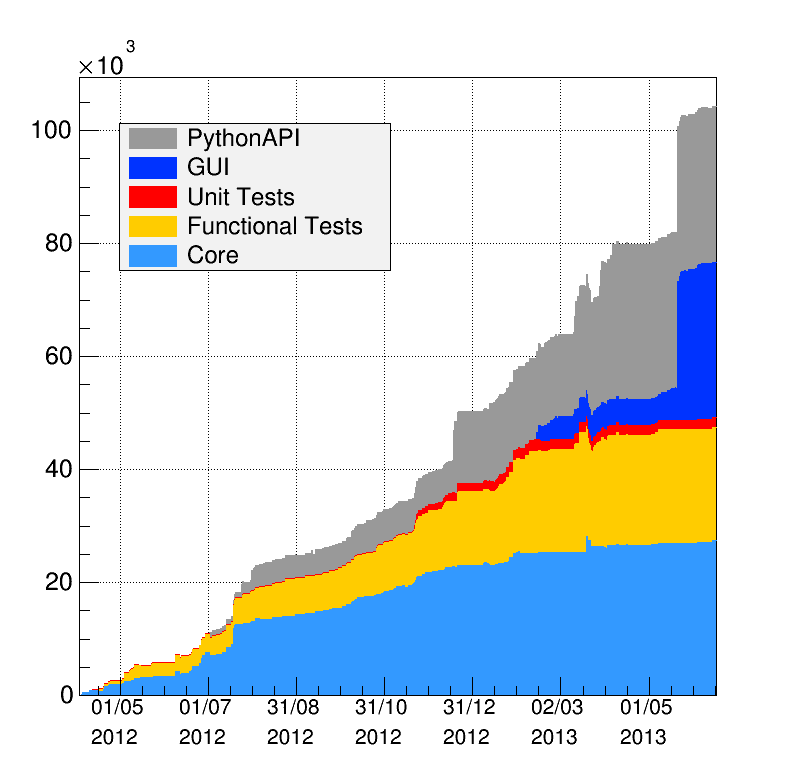
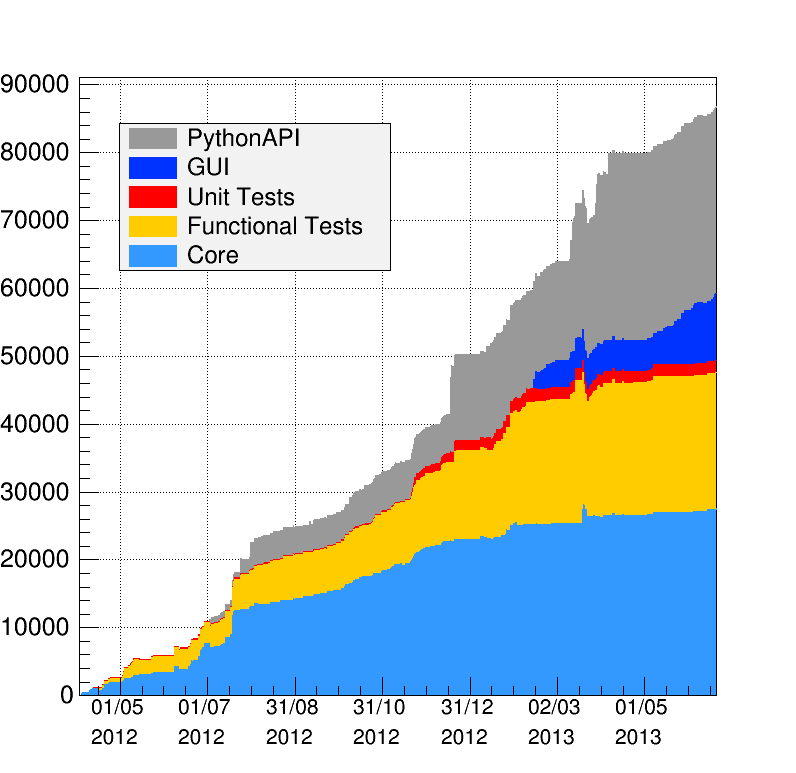
Number of lines of code

diff --git a/dev-tools/git-utils/lines_of_code.py b/dev-tools/git-utils/lines_of_code.py
@@ -82,7 +82,7 @@ def dirFuncTest(x):
     return False
 
 def dirGUI(x):
-    if "/GUI/coregui" in x  and not "widgetbox" in x: return True
+    if "/GUI/coregui" in x  and not "widgetbox" in x and not "qttools" in x: return True
     if "/AppGUI/coregui" in x: return True
     if "/BASuite" in x: return True
     return False
